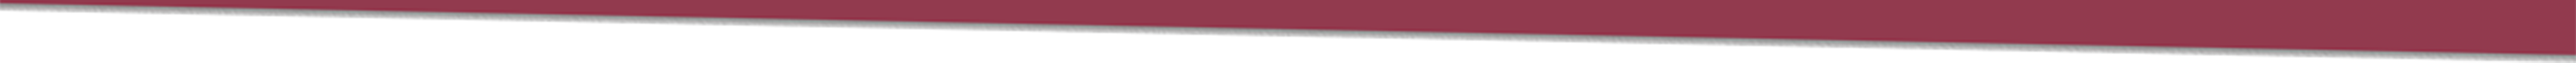
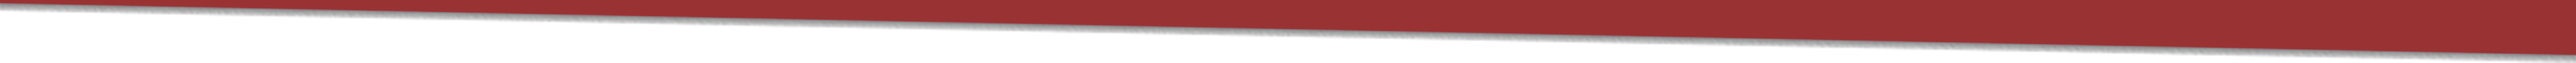
angle

diff --git a/style.css b/style.css
@@ -408,10 +408,10 @@ p {
 	position: absolute;
 	margin-top: -1px;
 	width: 100%;
-	/*height: 80px;
+	height: 80px;
 	background-size: contain;
 	background-repeat: no-repeat;
-	background-image: url("angled_bottom.gif");*/
+	background-image: url("angled_bottom.gif");
 }
 
 .weird_margin {

diff --git a/index.html b/index.html
@@ -102,7 +102,7 @@
 					</div>
 				</div>
 			</div>
-		<img class="angled_bottom" src="angled_bottom.png"/>
+		<div class="angled_bottom"></div>
 
 		<a name="experience">
 			<div class="section experience">	
